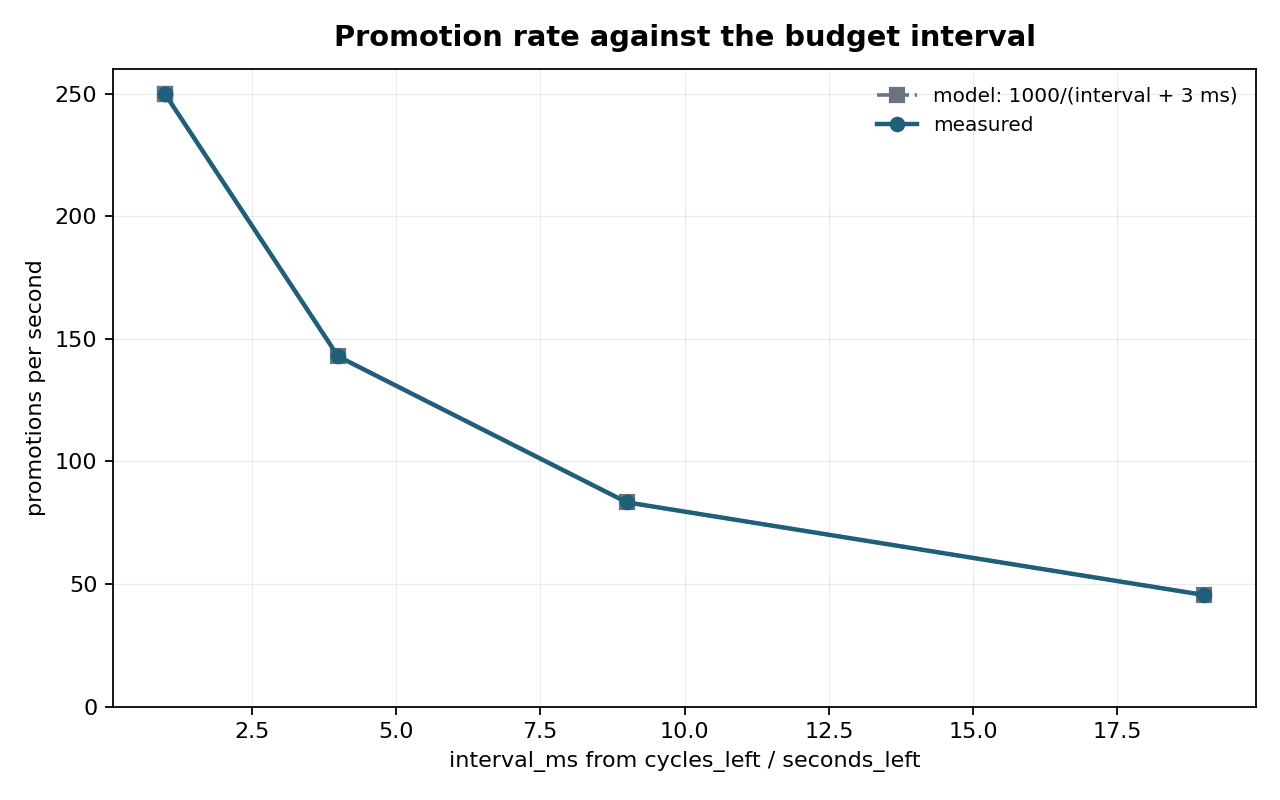
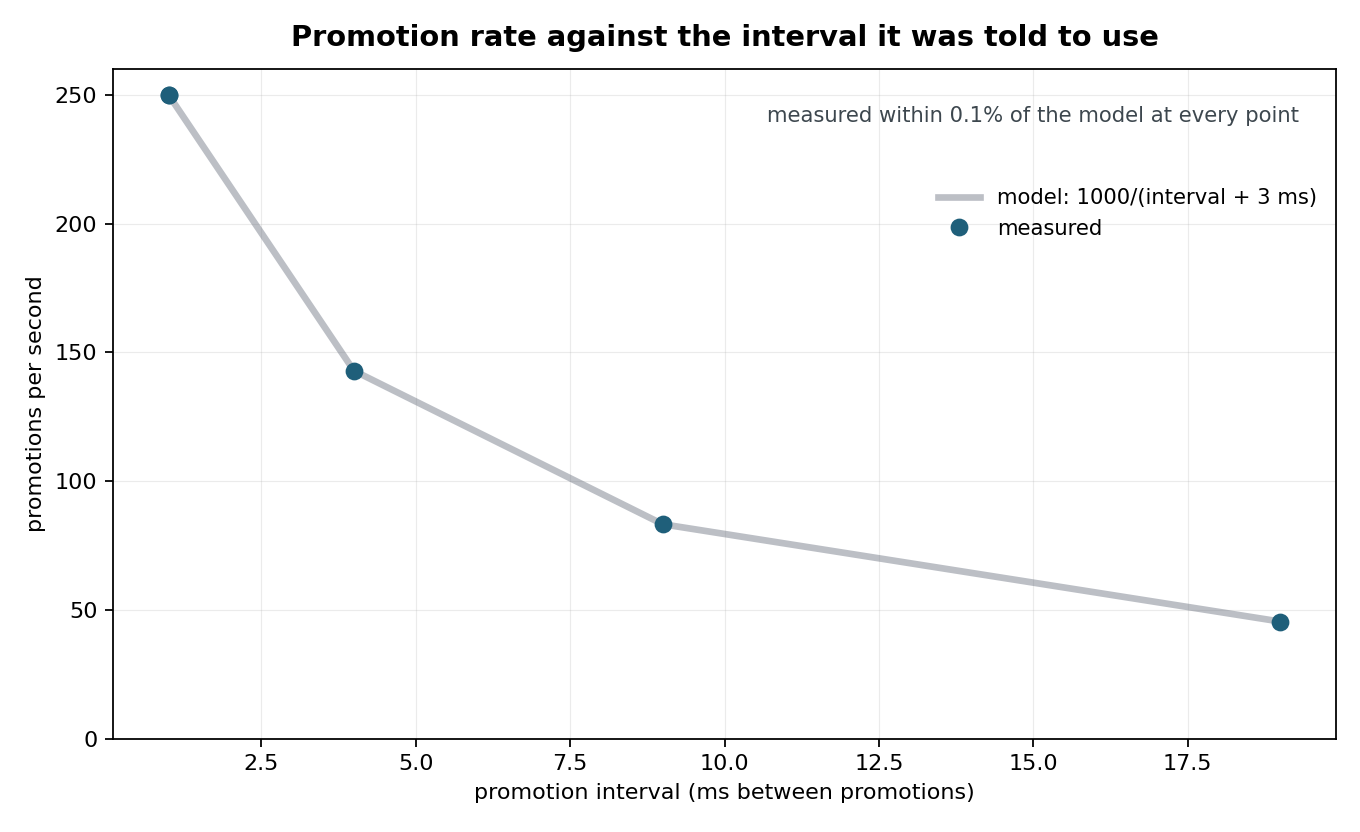
plot: name the promotion axis, and stop the two series hiding each other
The x axis is the promotion interval -- how long the scanner waits between
promotions. Labelling it "from cycles_left / seconds_left" named the formula
instead of the quantity.

Measured and model agree to three significant figures, so plotting both as
markers put the circles exactly on top of the squares and only one was
visible. The model is now a bare line with the measurements as points on it,
and the worst-case error is stated on the figure -- which is the whole claim,
since this is a validation rather than a finding.

diff --git a/scripts/plot_selftest.py b/scripts/plot_selftest.py
@@ -129,18 +129,25 @@ if r:
 
 r = rows("promote-rate.csv")
 if r:
+    r = sorted(r, key=lambda x: float(x["interval_ms"]))
     iv = [float(x["interval_ms"]) for x in r]
     me = [float(x["measured_per_s"]) for x in r]
     pr = [float(x["predicted_per_s"]) for x in r]
-    fig, ax = plt.subplots(figsize=(8, 5))
-    ax.plot(iv, pr, "s--", color=C_MODEL, lw=1.6, label="model: 1000/(interval + 3 ms)")
-    ax.plot(iv, me, "o-", color=C_DRAM, lw=2, label="measured")
+    fig, ax = plt.subplots(figsize=(8.5, 5.2))
+    # The two series coincide to 3 s.f., so drawing both as markers hides one
+    # under the other. Model as a bare line, measurement as points on it.
+    ax.plot(iv, pr, "-", color=C_MODEL, lw=3, alpha=.45, label="model: 1000/(interval + 3 ms)")
+    ax.plot(iv, me, "o", color=C_DRAM, ms=7, zorder=3, label="measured")
+    err = max(abs(a - b) / b * 100 for a, b in zip(me, pr))
+    ax.annotate(f"measured within {err:.1f}% of the model at every point",
+                (0.97, 0.92), xycoords="axes fraction", ha="right", fontsize=9.5,
+                color="#3d474e")
     ax.set_ylim(bottom=0)
-    frame(ax, "Promotion rate against the budget interval", "interval_ms from cycles_left / seconds_left",
-          "promotions per second",
-          "The 3 ms is the scan and migration each tick does on top of the sleep, so the interval is a gap, not a period.")
-    ax.legend(fontsize=9, frameon=False)
-    fig.tight_layout(); fig.savefig(f"{OUT}/selftest-promote-rate.png", dpi=160); made.append("promote-rate")
+    frame(ax, "Promotion rate against the interval it was told to use",
+          "promotion interval (ms between promotions)", "promotions per second")
+    ax.legend(fontsize=9.5, frameon=False, loc="upper right", bbox_to_anchor=(1, .85))
+    fig.tight_layout(); fig.savefig(f"{OUT}/selftest-promote-rate.png", dpi=160)
+    made.append("promote-rate")
 
 r = rows("fill-curve.csv")
 if r:
